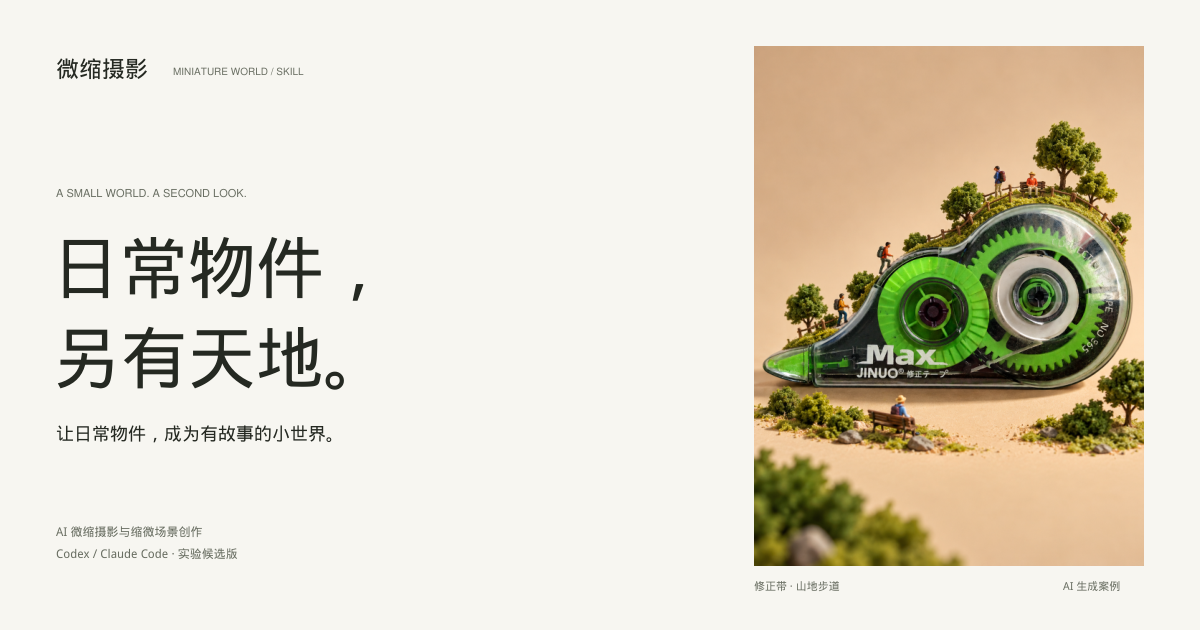
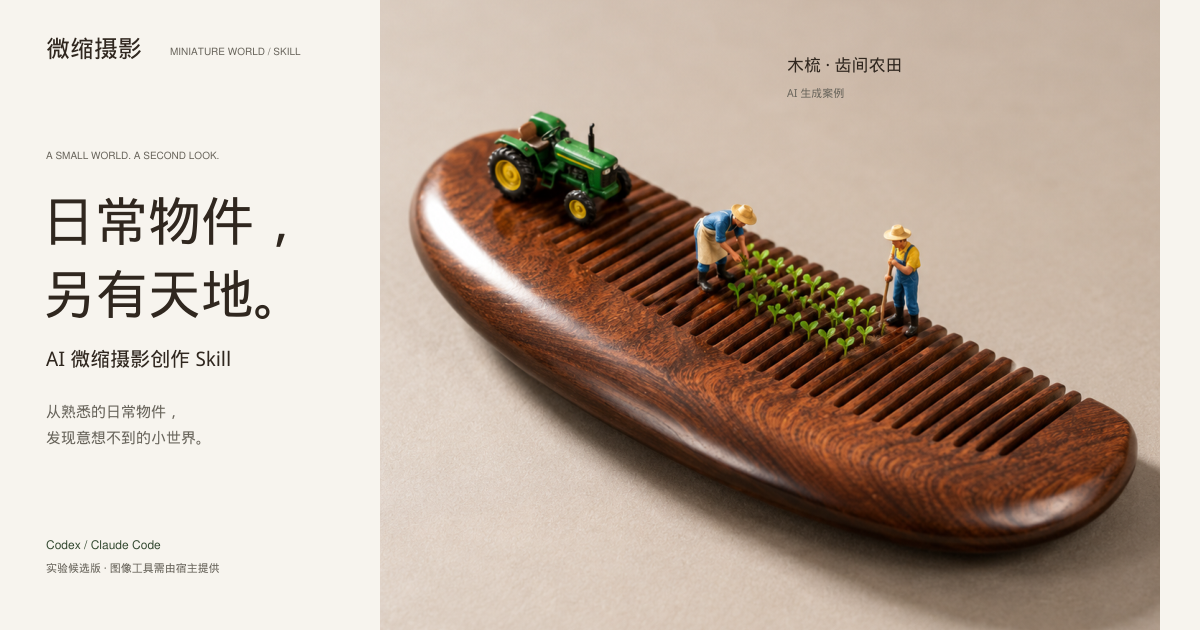
Refine warm gallery with comb hero and clear setup

diff --git a/site/style.css b/site/style.css
@@ -1,4 +1,14 @@
-:root{--paper:#f7f6f1;--ink:#252922;--muted:#666b5f;--line:#dcded3;--green:#355b40;--soft:#ebece3}*{box-sizing:border-box}html{scroll-behavior:smooth;scroll-padding-top:32px}body{margin:0;background:var(--paper);color:var(--ink);font-family:Arial,'Noto Sans CJK SC','Microsoft YaHei',sans-serif;-webkit-font-smoothing:antialiased}a{color:inherit;text-decoration:none}button{font:inherit;color:inherit;cursor:pointer}img{display:block;width:100%;height:auto}figure,h1,h2,h3,p{margin:0}button,a{-webkit-tap-highlight-color:transparent}a:focus-visible,button:focus-visible{outline:2px solid var(--green);outline-offset:6px}.wrap{max-width:1400px;padding-inline:5.4%;margin:auto}.skip{position:absolute;top:-90px;background:var(--ink);color:white;padding:16px;z-index:10}.skip:focus{top:8px}.header{display:flex;justify-content:space-between;align-items:center;height:104px}.brand{display:flex;gap:16px;align-items:center}.brand-cn{font-size:23px;font-weight:750;letter-spacing:-1px}.brand-en{font-size:10px;line-height:1.6;letter-spacing:1.5px;border-left:1px solid var(--line);padding-left:16px}.brand-en span{display:block;letter-spacing:2px;color:var(--muted)}nav{display:flex;align-items:center;gap:35px;font-size:13px}.nav-start{border-bottom:1px solid var(--ink);padding-block:10px}.nav-start span{margin-left:18px}.hero{display:grid;grid-template-columns:1.05fr 1fr;gap:8%;align-items:center;padding-top:38px;padding-bottom:70px}.eyebrow{font-size:10px;letter-spacing:2.2px;color:var(--muted);line-height:1.7}.hero h1{font-family:'Songti SC','Noto Serif CJK SC','SimSun',serif;font-weight:500;font-size:clamp(48px,5.1vw,76px);line-height:1.3;letter-spacing:-2px;margin:28px 0}.hero-lead{font-size:18px;line-height:1.8}.hero-description{font-size:14px;color:var(--muted);line-height:1.95;margin-top:18px}.actions{display:flex;align-items:center;gap:25px;margin-top:35px}.button{display:inline-flex;align-items:center;justify-content:space-between;gap:36px;padding:17px 22px;font-size:13px;border:1px solid var(--green);min-height:50px}.primary{background:var(--green);color:#fff}.primary:hover{background:#274831}.text-link{font-size:13px;text-decoration:underline;text-underline-offset:7px;line-height:2}.hero-meta{font-size:11px;line-height:1.9;color:var(--muted);margin-top:32px}.hero-art{max-width:505px}.image-button{display:block;padding:0;border:0;background:transparent;width:100%;text-align:inherit}.image-button img{transition:filter .2s}.image-button:hover img{filter:brightness(.97)}.hero-art img{aspect-ratio:3/4;object-fit:contain}figcaption{display:flex;justify-content:space-between;gap:15px;font-size:10px;color:var(--muted);margin-top:15px;line-height:1.7}.intro-line{display:flex;justify-content:space-between;gap:16px;border-top:1px solid var(--line);border-bottom:1px solid var(--line);padding-top:20px;padding-bottom:20px;font-size:12px}.intro-line span:last-child{font-size:9px;letter-spacing:1.8px;color:var(--muted)}.section{padding-top:100px;padding-bottom:90px}.section-heading{display:flex;justify-content:space-between;align-items:end;gap:25px;margin-bottom:48px}h2{font-size:clamp(30px,3.4vw,48px);font-weight:500;line-height:1.35;letter-spacing:-1.7px}.section-heading h2{margin-top:18px}.section-heading>p{font-size:13px;color:var(--muted);line-height:1.9;padding-bottom:4px}.stories-grid{display:grid;grid-template-columns:1fr 1fr;gap:65px 9%}.story-offset{margin-top:100px}.story img{aspect-ratio:3/4;object-fit:contain;background:#f0eee8}.story-title{display:flex;justify-content:space-between;gap:15px;margin:20px 0 9px}.story-title h3{font-size:20px;font-weight:500;line-height:1.5}.story-title span{font-size:11px;color:var(--muted);padding-top:6px}.story p{font-size:12px;line-height:1.9;color:var(--muted)}.story-wide{grid-column:1/-1;display:grid;grid-template-columns:1fr 1fr;gap:9%;align-items:center;margin-top:10px}.wide-copy h3{font-size:36px;line-height:1.4;font-weight:500;margin:22px 0}.wide-copy>p:not(.eyebrow){font-size:14px;line-height:2}.wide-copy .text-link{display:inline-block;margin-top:28px}.small-note{color:var(--muted);font-size:11px;line-height:1.9;margin-top:38px}.detail-section{background:var(--soft);padding:80px 0}.detail-inner{display:grid;grid-template-columns:1fr 1fr;gap:9%}.detail-inner h2{margin-top:18px}.detail-copy{max-width:460px}.big-copy{font-size:28px;line-height:1.6;margin-bottom:24px}.detail-copy>p:not(.big-copy){font-size:14px;line-height:2;margin-top:14px;color:#555e50}.detail-foot{display:block;font-size:10px;line-height:1.9;color:var(--muted);margin-top:26px}.method-grid{display:grid;grid-template-columns:repeat(4,1fr);gap:30px}.method-grid article{border-top:1px solid var(--line);padding-top:25px}.number{font-family:Georgia,serif;font-size:35px;font-style:italic;color:#8b9383}.method-grid h3{font-size:20px;font-weight:500;margin:28px 0 15px}.method-grid p{font-size:13px;line-height:1.9;color:var(--muted)}.start-section{background:#e9ede4;padding:90px 0}.start-inner{display:grid;grid-template-columns:1fr 1fr;gap:9%;align-items:center}.start-inner h2{margin-top:20px}.start-description{font-size:14px;line-height:2;color:#626a5e;margin:24px 0}.start-card{padding:35px;background:var(--paper)}.host-buttons{display:flex;margin:20px 0;border-bottom:1px solid var(--line);gap:22px}.host-buttons button{border:0;border-bottom:2px solid transparent;padding:10px 0 13px;background:none;font-size:14px;color:var(--muted)}.host-buttons button[aria-pressed=true]{border-color:var(--green);color:var(--green);font-weight:700}pre{white-space:pre-wrap;overflow-wrap:anywhere;font:14px/2 Arial,'Noto Sans CJK SC',sans-serif;min-height:112px;margin:20px 0}.copy{background:transparent;width:100%;border-color:#a6b29e}.copy:hover{background:var(--soft)}#copy-status{min-height:20px;font-size:11px;margin-top:8px;color:var(--green)}.tool-note{font-size:11px;line-height:1.9;color:var(--muted);margin-top:12px}.about-section{padding-top:85px;padding-bottom:75px;display:grid;grid-template-columns:1fr 1fr;gap:9%}.about-section h2{font-size:26px;line-height:1.5;margin-top:20px}.about-section>div>p:not(.eyebrow){font-size:13px;line-height:2;color:var(--muted);margin-bottom:17px}.about-links{display:flex;gap:24px;font-size:11px;text-decoration:underline;text-underline-offset:5px}.footer{display:flex;justify-content:space-between;gap:25px;border-top:1px solid var(--line);padding-top:32px;padding-bottom:40px;font-size:10px;line-height:2;color:var(--muted)}.footer strong{color:var(--ink);font-weight:500;letter-spacing:1px}.footer>div:last-child{text-align:right}.footer a{border-bottom:1px solid var(--line)}dialog{border:0;padding:24px;max-width:min(94vw,900px);max-height:95vh;background:var(--paper);color:var(--ink)}dialog::backdrop{background:#171c16d9}dialog img{width:auto;max-width:100%;max-height:76vh;margin:auto;object-fit:contain}dialog p{font-size:12px;line-height:1.8;max-width:700px;margin-top:14px}.close{display:block;margin:0 0 16px auto;padding:8px 12px;background:none;border:1px solid var(--line);min-height:40px}
-@media(min-width:1500px){.wrap{padding-inline:70px}}
-@media(max-width:760px){.wrap{padding-inline:23px}.header{height:82px}.brand-cn{font-size:19px}.brand-en{font-size:8px;padding-left:10px;letter-spacing:.7px}.brand{gap:10px}nav{gap:18px;font-size:12px}nav>a:not(.nav-start){display:none}.nav-start span{margin-left:8px}.hero{grid-template-columns:1fr;gap:38px;padding-top:35px;padding-bottom:40px}.hero h1{font-size:53px;margin:23px 0;letter-spacing:-2px}.hero-lead{font-size:16px}.hero-description{font-size:13px}.hero-meta{margin-top:24px}.actions{margin-top:26px;gap:22px}.hero-art{max-width:100%;width:100%}.hero-art img{max-height:none}.intro-line{font-size:11px;padding-block:17px}.intro-line span:last-child{display:none}.section{padding-top:65px;padding-bottom:60px}.section-heading{display:block;margin-bottom:30px}h2{font-size:34px}.section-heading>p{margin-top:22px;font-size:12px}.stories-grid{gap:38px;grid-template-columns:1fr}.story-offset{margin-top:0}.story-title h3{font-size:19px}.story-wide{grid-column:auto;grid-template-columns:1fr;gap:28px}.wide-copy h3{font-size:30px;margin:15px 0}.wide-copy>p:not(.eyebrow){font-size:13px}.detail-section{padding:55px 0}.detail-inner,.start-inner,.about-section{grid-template-columns:1fr;gap:35px}.big-copy{font-size:25px}.method-grid{grid-template-columns:1fr 1fr;gap:32px 24px}.method-grid h3{margin:18px 0 12px;font-size:18px}.method-grid p{font-size:12px}.start-section{padding:58px 0}.start-card{padding:25px}.about-section{padding-top:60px;padding-bottom:45px;gap:25px}.footer{display:block;font-size:10px}.footer>div:last-child{text-align:left;margin-top:18px}.eyebrow{font-size:9px;letter-spacing:1.4px}dialog{padding:16px}dialog img{max-height:70vh}}
+:root{--paper:#f7f4ee;--ink:#30271f;--muted:#68645b;--line:#d4cfc3;--green:#344a31;--soft:#eeece3;--serif:'Songti SC','Noto Serif CJK SC','SimSun',serif}
+*{box-sizing:border-box}html{scroll-behavior:smooth;scroll-padding-top:28px}body{margin:0;background:var(--paper);color:var(--ink);font-family:Arial,'Noto Sans CJK SC','Microsoft YaHei',sans-serif;-webkit-font-smoothing:antialiased}a{color:inherit;text-decoration:none}button{font:inherit;color:inherit;cursor:pointer}img{display:block;width:100%;height:auto}figure,h1,h2,h3,p{margin:0}a:focus-visible,button:focus-visible{outline:2px solid var(--green);outline-offset:5px}.wrap{width:min(1320px,calc(100% - 96px));margin-inline:auto}.skip{position:absolute;top:-90px;background:var(--ink);color:#fff;padding:16px;z-index:10}.skip:focus{top:8px}
+.header{display:flex;justify-content:space-between;align-items:center;min-height:96px;border-bottom:1px solid var(--line);gap:24px}.brand{display:flex;align-items:center;gap:20px}.brand-cn{font-family:var(--serif);font-size:27px;font-weight:700}.brand-en{font-size:10px;letter-spacing:1px;line-height:1.8;color:var(--muted)}.brand-en span{display:inline}nav{display:flex;gap:30px;align-items:center;font-size:14px}.nav-start{border-bottom:1px solid var(--ink);padding-block:8px}
+.hero{display:grid;grid-template-columns:minmax(260px,.8fr) minmax(0,1.65fr);gap:30px;align-items:center;padding:48px 0 58px}.hero-copy{position:relative;z-index:1}.eyebrow{font-size:11px;letter-spacing:1.5px;line-height:1.8;color:var(--muted)}.hero h1{font-family:var(--serif);font-size:clamp(40px,4.7vw,64px);font-weight:500;line-height:1.3;letter-spacing:-1.5px;margin:24px 0}.hero-lead{font-family:var(--serif);font-size:22px;line-height:1.6}.hero-description{font-size:15px;line-height:1.9;color:var(--muted);margin-top:24px}.actions{display:flex;align-items:center;gap:25px;flex-wrap:wrap;margin-top:32px}.button{display:inline-flex;align-items:center;justify-content:center;min-height:48px;padding:14px 24px;border:1px solid var(--green);font-size:14px}.primary{background:var(--green);color:#fff}.primary:hover{background:#263d23}.text-link{font-size:14px;line-height:1.8;text-decoration:underline;text-underline-offset:6px}.hero-meta{font-size:11px;color:var(--muted);line-height:1.8;margin-top:40px}.hero-art{min-width:0}.image-button{display:block;width:100%;border:0;padding:0;background:none;text-align:inherit}.image-button img{transition:filter .2s}.image-button:hover img{filter:brightness(.98)}
+/* Crops only unused top/bottom background. Full comb bounds stay in frame. */
+.hero-art img{aspect-ratio:4/3;object-fit:cover;object-position:50% 52%}figcaption{display:flex;justify-content:space-between;gap:20px;font-size:12px;line-height:1.9;color:var(--muted);margin-top:17px}figcaption strong{font-family:var(--serif);font-size:18px;font-weight:500;color:var(--ink)}figcaption>span:last-child{text-align:right}
+.section{padding-top:70px;padding-bottom:70px}#stories{border-top:1px solid var(--line)}.section-heading{display:flex;justify-content:space-between;align-items:end;gap:32px;margin-bottom:36px}h2{font-family:var(--serif);font-size:clamp(28px,3vw,40px);font-weight:500;line-height:1.4}.section-heading h2{margin-top:14px}.section-heading>p{font-size:14px;line-height:1.9;color:var(--muted)}.stories-grid{display:grid;grid-template-columns:repeat(3,minmax(0,1fr));gap:24px}.story img{aspect-ratio:3/4;object-fit:contain}.story h3{font-family:var(--serif);font-size:20px;line-height:1.5;font-weight:500;margin:18px 0 8px}.story p{font-size:14px;line-height:1.8;color:var(--muted)}.gallery-foot{display:flex;justify-content:space-between;align-items:baseline;gap:25px;margin-top:28px}.small-note{font-size:12px;line-height:1.8;color:var(--muted)}
+.detail-section{background:var(--soft);padding:62px 0}.detail-inner{display:grid;grid-template-columns:1fr 1.2fr;gap:10%}.detail-inner h2{margin-top:18px}.detail-copy{max-width:570px}.big-copy{font-family:var(--serif);font-size:26px;line-height:1.5;margin-bottom:20px}.detail-copy>p:not(.big-copy){font-size:14px;line-height:1.9;margin-top:12px;color:var(--muted)}.detail-foot{display:block;font-size:12px;line-height:1.8;color:var(--muted);margin-top:20px}.method-grid{display:grid;grid-template-columns:repeat(4,minmax(0,1fr));gap:30px}.method-grid article{border-top:1px solid var(--line);padding-top:22px}.number{font-family:Georgia,serif;font-size:28px;color:var(--green)}.method-grid h3{font-family:var(--serif);font-size:23px;font-weight:500;margin:18px 0 12px}.method-grid p{font-size:14px;line-height:1.8;color:var(--muted)}
+.start-section{background:var(--soft);padding:70px 0}.start-inner{display:grid;grid-template-columns:1fr 1.2fr;gap:10%;align-items:center}.start-inner h2{margin-top:18px}.start-description{font-size:14px;line-height:1.9;color:var(--muted);margin:22px 0}.start-card{padding:30px;background:var(--paper);min-width:0}.host-buttons{display:flex;margin:18px 0;border-bottom:1px solid var(--line);gap:24px}.host-buttons button{border:0;border-bottom:2px solid transparent;padding:12px 0;background:none;font-size:14px;color:var(--muted)}.host-buttons button[aria-pressed=true]{border-color:var(--green);color:var(--green);font-weight:700}pre{white-space:pre-wrap;overflow-wrap:anywhere;font:14px/1.9 Arial,'Noto Sans CJK SC',sans-serif;min-height:106px;margin:18px 0}.copy{width:100%;background:none}.copy:hover{background:var(--soft)}#copy-status{min-height:22px;font-size:12px;line-height:1.7;margin-top:10px;color:var(--green)}.tool-note{font-size:12px;line-height:1.8;color:var(--muted);margin-top:12px}
+.about-section{padding-block:65px;display:grid;grid-template-columns:1fr 1.2fr;gap:10%}.about-section h2{font-size:27px;margin-top:18px}.about-section>div>p:not(.eyebrow){font-size:14px;line-height:1.9;color:var(--muted);margin-bottom:15px}.about-links{display:flex;gap:24px;font-size:12px;text-decoration:underline;text-underline-offset:5px}.footer{display:flex;justify-content:space-between;gap:25px;border-top:1px solid var(--line);padding-block:28px 36px;font-size:11px;line-height:1.9;color:var(--muted)}.footer strong{color:var(--ink);font-weight:500;letter-spacing:1px}.footer>div:last-child{text-align:right}.footer a{text-decoration:underline;text-underline-offset:4px}
+dialog{border:0;padding:24px;max-width:min(94vw,900px);max-height:95vh;background:var(--paper);color:var(--ink)}dialog::backdrop{background:#211b17d9}dialog img{width:auto;max-width:100%;max-height:76vh;margin:auto;object-fit:contain}dialog p{font-size:14px;line-height:1.7;margin-top:14px}.close{display:block;margin:0 0 16px auto;padding:10px 14px;background:none;border:1px solid var(--line);min-height:44px}
+@media(max-width:960px){.wrap{width:calc(100% - 56px)}.hero{grid-template-columns:.9fr 1.25fr;gap:20px}.hero h1{font-size:42px}.hero-lead{font-size:19px}.actions{gap:18px}.hero-art img{aspect-ratio:1/1}.stories-grid{gap:18px}.story h3{font-size:18px}nav{gap:20px}.brand-en{display:none}}
+@media(max-width:680px){.wrap{width:calc(100% - 40px)}.header{min-height:78px}.brand-cn{font-size:23px}nav>a:not(.nav-start){display:none}nav{font-size:13px}.hero{grid-template-columns:1fr;gap:28px;padding:34px 0 40px}.hero h1{font-size:44px;margin:18px 0}.hero-lead{font-size:20px}.hero-description{margin-top:16px}.hero-meta{margin-top:22px}.actions{margin-top:24px}.hero-art img{aspect-ratio:4/3}figcaption{font-size:11px;gap:14px}figcaption strong{font-size:17px}.section{padding-block:45px}.section-heading{display:block;margin-bottom:28px}.section-heading>p{margin-top:16px}.stories-grid{grid-template-columns:1fr;gap:30px}.story h3{font-size:20px;margin-top:15px}.gallery-foot{display:block;margin-top:25px}.gallery-foot a{display:inline-block;margin-top:14px}.detail-section{padding:42px 0}.detail-inner,.start-inner,.about-section{grid-template-columns:1fr;gap:28px}.method-grid{grid-template-columns:1fr 1fr;gap:26px 18px}.method-grid h3{font-size:21px}.method-grid p{font-size:13px}.start-section{padding:45px 0}.start-card{padding:24px}.about-section{padding-block:45px}.footer{display:block}.footer>div:last-child{text-align:left;margin-top:18px}dialog{padding:16px}dialog img{max-height:70vh}}
 @media(prefers-reduced-motion:reduce){html{scroll-behavior:auto}*{transition:none!important}}

diff --git a/site/index.html b/site/index.html
@@ -10,24 +10,23 @@
 </head>
 <body>
 <a class="skip" href="#main">跳到正文</a>
-<header class="header wrap"><a class="brand" href="#main" aria-label="微缩摄影首页"><span class="brand-cn">微缩摄影</span><span class="brand-en">MINIATURE WORLD <span> / SKILL</span></span></a><nav aria-label="主导航"><a href="#stories">看作品</a><a href="#method">创作方法</a><a class="nav-start" href="#start">开始使用 <span aria-hidden="true">↗</span></a></nav></header>
+<header class="header wrap"><a class="brand" href="#main" aria-label="微缩摄影首页"><span class="brand-cn">微缩摄影</span><span class="brand-en">MINIATURE WORLD <span> / SKILL</span></span></a><nav aria-label="主导航"><a href="#stories">看作品</a><a href="#method">创作方法</a><a class="nav-start" href="#start">安装与使用</a></nav></header>
 <main id="main">
 <section class="hero wrap">
-<div class="hero-copy"><p class="eyebrow">A SMALL WORLD. A SECOND LOOK.</p><h1>日常物件，<br>另有天地。</h1><p class="hero-lead">让日常物件，成为有故事的小世界。</p><p class="hero-description">一处轮廓，一段纹理，一个新的联想。<br>让微小的人物，把藏在物件里的故事显现出来。</p><div class="actions"><a class="button primary" href="#stories">走进小世界 <span aria-hidden="true">↗</span></a><a class="text-link" href="#start">使用这个 Skill</a></div><p class="hero-meta">为好奇的创作者、设计师与商品视觉团队而作。<br>Codex / Claude Code · 实验候选版</p></div>
-<figure class="hero-art"><button class="image-button" data-image="../examples/correction-tape-hiking.png" data-caption="修正带 · 山地步道｜AI 生成案例；细小标识与商品尺寸未验收。" aria-label="放大修正带山地步道作品"><img src="../examples/correction-tape-hiking.png" alt="微小的徒步者沿着修正带起伏的外壳行走，修正带成为山地步道" width="1087" height="1447" fetchpriority="high"></button><figcaption><span>01 / 修正带 · 山地步道</span><span>AI 生成 · 点击看大图</span></figcaption></figure>
+<div class="hero-copy"><p class="eyebrow">A SMALL WORLD. A SECOND LOOK.</p><h1>日常物件，<br>另有天地。</h1><p class="hero-lead">AI 微缩摄影创作 Skill</p><p class="hero-description">从熟悉的日常物件，<br>发现意想不到的小世界。</p><div class="actions"><a class="button primary" href="#start">安装与使用</a><a class="text-link" href="#stories">查看案例</a></div><p class="hero-meta">Codex / Claude Code · 实验候选版</p></div>
+<figure class="hero-art"><button class="image-button" data-image="../examples/comb-farm.png" data-caption="木梳 · 齿间农田｜AI 生成案例；梳齿数量与尺寸尚未逐项核对。" aria-label="放大木梳齿间农田作品"><img src="../examples/comb-farm.png" alt="木梳的平行梳齿成为田垄，两位微缩农人照料幼苗，农机停在梳背上" width="1086" height="1448" fetchpriority="high"></button><figcaption><span><strong>木梳 · 齿间农田</strong><br>平行的梳齿，也能长出一片田野。</span><span>AI 生成案例 · 点击看原图</span></figcaption></figure>
 </section>
-<div class="intro-line wrap"><span>换一个尺度，看见另一种可能。</span><span>OBJECT → IDEA → SMALL WORLD</span></div>
 <section id="stories" class="section wrap">
-<div class="section-heading"><div><p class="eyebrow">01 / SELECTED STORIES</p><h2>物件很寻常。<br>故事不寻常。</h2></div><p>故事从物件本身出发。<br>原来的身份还在，新的世界已经发生。</p></div>
+<div class="section-heading"><div><p class="eyebrow">SELECTED STORIES</p><h2>从熟悉的日常，<br>发现不一样的风景。</h2></div><p>原来的物件还在。<br>新的故事，已经发生。</p></div>
 <div class="stories-grid">
-<article class="story"><button class="image-button" data-image="../examples/comb-farm.png" data-caption="木梳 · 齿间农田｜AI 生成案例；梳齿数量与尺寸尚未逐项核对。" aria-label="放大木梳齿间农田作品"><img src="../examples/comb-farm.png" alt="木梳的平行梳齿成为微缩农田，农机沿田垄工作" width="1086" height="1448" loading="lazy"></button><div class="story-title"><h3>梳齿之间，有一片田野。</h3><span>02</span></div><p>木梳 / 平行排列的梳齿，成为耕作的田垄。</p></article>
-<article class="story story-offset"><button class="image-button" data-image="../examples/notebook-bike-rack.png" data-caption="笔记本 · 装订圈停车架｜AI 生成案例；不代表锁车动作或具体型号保真已通过。" aria-label="放大笔记本装订圈停车架作品"><img src="../examples/notebook-bike-rack.png" alt="微缩自行车停在笔记本金属装订圈旁，装订圈成为停车架" width="1086" height="1448" loading="lazy"></button><div class="story-title"><h3>翻开一页，停下脚步。</h3><span>03</span></div><p>笔记本 / 金属装订圈，成为停放自行车的结构。</p></article>
-<article class="story story-wide"><button class="image-button" data-image="../examples/potato-chip-harvest.png" data-caption="薯片 · 波纹秋收｜AI 生成案例；食品纹理创意，不认证特定包装商品。" aria-label="放大薯片波纹秋收作品"><img src="../examples/potato-chip-harvest.png" alt="微型收割机停在波纹薯片上，金黄色纹理成为秋收的田垄" width="1086" height="1448" loading="lazy"></button><div class="wide-copy"><p class="eyebrow">04 / A DIFFERENT PERSPECTIVE</p><h3>一片薯片。<br>一场金色的秋收。</h3><p>金黄的波纹，成为收割的田垄。<br>一旁的碎屑与微型收割机，让酥脆的质地有了丰收的意味。</p><a class="text-link" href="https://github.com/denggui-ai/create-miniature-world/blob/main/examples/SELECTED.md">查看全部 18 组案例与说明 <span aria-hidden="true">↗</span></a></div></article>
-</div><p class="small-note">以上均为开发期间的 AI 生成案例，展示创意方向；不代表每张图的商品保真、人偶尺度和细节均已通过验收。</p>
+<article class="story"><button class="image-button" data-image="../examples/notebook-bike-rack.png" data-caption="笔记本 · 装订圈停车架｜AI 生成案例；不代表锁车动作或具体型号保真已通过。" aria-label="放大笔记本装订圈停车架作品"><img src="../examples/notebook-bike-rack.png" alt="微缩自行车停在笔记本金属装订圈旁，装订圈成为停车架" width="1086" height="1448" loading="lazy"></button><h3>笔记本 · 装订圈停车架</h3><p>翻开一页，找到停放自行车的地方。</p></article>
+<article class="story"><button class="image-button" data-image="../examples/potato-chip-harvest.png" data-caption="薯片 · 波纹秋收｜AI 生成案例；食品纹理创意，不认证特定包装商品。" aria-label="放大薯片波纹秋收作品"><img src="../examples/potato-chip-harvest.png" alt="微型收割机停在波纹薯片上，金黄色纹理成为秋收的田垄" width="1086" height="1448" loading="lazy"></button><h3>薯片 · 波纹秋收</h3><p>一片薯片，也有金黄的田垄与忙碌。</p></article>
+<article class="story"><button class="image-button" data-image="../examples/correction-tape-hiking.png" data-caption="修正带 · 山地步道｜AI 生成案例；细小标识与商品尺寸未验收。" aria-label="放大修正带山地步道作品"><img src="../examples/correction-tape-hiking.png" alt="微小的徒步者沿着修正带起伏的外壳行走，修正带成为山地步道" width="1087" height="1447" loading="lazy"></button><h3>修正带 · 山地步道</h3><p>沿着起伏的轮廓，走一段微小的旅程。</p></article>
+</div><div class="gallery-foot"><p class="small-note">开发期间的 AI 生成案例；具体商品保真与已知不足见案例说明。</p><a class="text-link" href="https://github.com/denggui-ai/create-miniature-world/blob/main/examples/SELECTED.md">查看全部 18 组案例</a></div>
 </section>
 <section class="detail-section" id="connection"><div class="wrap detail-inner"><div><p class="eyebrow">THE CONNECTION MATTERS</p><h2>故事，为什么<br>发生在这里？</h2></div><div class="detail-copy"><p class="big-copy">因为装订圈，<br>刚好可以成为停车架。</p><p>一个可见的结构，同时保留笔记本的身份，也承担新场景里的用途。自行车与人物的位置，让这个联想变得可读。</p><p>判断创意时，我们会追问：换掉这个物件，画面里最有意思的联系还在吗？</p><span class="detail-foot">以笔记本案例说明创意关系；此处不是完整的输入／生成过程复放。</span></div></div></section>
 <section id="method" class="section wrap"><div class="section-heading"><div><p class="eyebrow">02 / THE CREATIVE PROCESS</p><h2>让巧思，有迹可循。</h2></div><p>从读懂物件，到看懂画面。<br>四项能力，组成一次完整创作。</p></div><div class="method-grid"><article><span class="number">01</span><h3>发现联想</h3><p>找到商品值得被<br>重新看见的特征。</p></article><article><span class="number">02</span><h3>建立情境</h3><p>让行动或空间关系<br>把联想显现出来。</p></article><article><span class="number">03</span><h3>组织画面</h3><p>让原物、新角色<br>和整体美感同时成立。</p></article><article><span class="number">04</span><h3>判断巧思</h3><p>用可见证据和必要对照，<br>区分成立、好看与保真。</p></article></div></section>
-<section id="start" class="start-section"><div class="wrap start-inner"><div><p class="eyebrow">03 / MAKE YOUR OWN</p><h2>下一个小世界，<br>从你的物件开始。</h2><p class="start-description">上传一张商品照片，先看三个创意。<br>选一个，再生成、审图与修改。</p><a class="text-link" href="https://github.com/denggui-ai/create-miniature-world/blob/main/docs/INSTALL.md">阅读安装与更新说明 <span aria-hidden="true">↗</span></a></div><div class="start-card"><p class="eyebrow">安装后，复制这句话开始</p><div class="host-buttons" role="group" aria-label="选择使用环境"><button type="button" data-host="codex" aria-pressed="true">Codex</button><button type="button" data-host="claude" aria-pressed="false">Claude Code</button></div><pre id="prompt">使用 $create-miniature-world，把这张商品图做成微缩摄影。先给三个有明显区别的创意，不要立即生图。</pre><button class="button copy" type="button" id="copy">复制启动指令 <span aria-hidden="true">↗</span></button><p id="copy-status" role="status" aria-live="polite"></p><p class="tool-note">Skill 提供创作流程；实际生图、参考图输入和编辑，需要所在环境提供对应工具。没有生图工具时，可以先获得方案与提示词。</p></div></div></section>
+<section id="start" class="start-section"><div class="wrap start-inner"><div><p class="eyebrow">03 / MAKE YOUR OWN</p><h2>下一个小世界，<br>从你的物件开始。</h2><p class="start-description">先在 Codex 或 Claude Code 中安装 Skill。<br>上传商品图，看三个创意，选定后再生成与修改。</p><a class="text-link" href="https://github.com/denggui-ai/create-miniature-world/blob/main/docs/INSTALL.md">阅读安装与更新说明 <span aria-hidden="true">↗</span></a></div><div class="start-card"><p class="eyebrow">安装后，复制这句话开始</p><div class="host-buttons" role="group" aria-label="选择使用环境"><button type="button" data-host="codex" aria-pressed="true">Codex</button><button type="button" data-host="claude" aria-pressed="false">Claude Code</button></div><pre id="prompt">使用 $create-miniature-world，把这张商品图做成微缩摄影。先给三个有明显区别的创意，不要立即生图。</pre><button class="button copy" type="button" id="copy">复制启动指令 <span aria-hidden="true">↗</span></button><p id="copy-status" role="status" aria-live="polite"></p><p class="tool-note">Skill 提供创作流程；实际生图、参考图输入和编辑，需要所在环境提供对应工具。没有生图工具时，可以先获得方案与提示词。</p></div></div></section>
 <section class="about-section wrap"><div><p class="eyebrow">WITH APPRECIATION</p><h2>向一种看世界的方式致敬。</h2></div><div><p>受田中达也（Tatsuya Tanaka）的「见立 / mitate」创作启发，我们学习从寻常事物中发现另一个世界，并用自己的物件与情境继续探索。</p><p>微缩摄影 Skill 同时面向 AI 微缩摄影与缩微场景创作。本项目为独立创作工具，与田中达也、MINIATURE CALENDAR 及 Preiser 无官方合作或背书关系。</p><div class="about-links"><a href="https://miniature-calendar.com/about/">了解创作启发</a><a href="https://github.com/denggui-ai/create-miniature-world/blob/main/THIRD_PARTY_NOTICES.md">素材与许可说明</a></div></div></section>
 </main><footer class="wrap footer"><div><strong>微缩摄影 · MINIATURE WORLD</strong><p>小世界里，藏着新的看见。</p></div><div><span>v0.1.0-rc2 · 私有预览</span><p>本机生图与编辑闭环待验收。</p><a href="https://github.com/denggui-ai/create-miniature-world">GitHub 项目与反馈 <span aria-hidden="true">↗</span></a></div></footer>
 <dialog id="lightbox" aria-labelledby="lightbox-caption"><button class="close" type="button">关闭大图</button><img id="lightbox-image" alt=""><p id="lightbox-caption"></p></dialog>

diff --git a/site/cover.html b/site/cover.html
@@ -4,6 +4,6 @@
 <meta name="viewport" content="width=device-width,initial-scale=1">
 <meta name="robots" content="noindex,nofollow">
 <title>Miniature World · 封面</title>
-<style>body{margin:0;background:#f7f6f1}img{display:block;width:100%;max-width:1200px;height:auto;margin:auto}</style>
-<img src="cover.png" width="1200" height="630" alt="微缩摄影 Skill：日常物件，另有天地。右侧是修正带山地步道 AI 生成案例。">
+<style>body{margin:0;background:#f7f4ee}img{display:block;width:100%;max-width:1200px;height:auto;margin:auto}</style>
+<img src="cover.png" width="1200" height="630" alt="微缩摄影 Skill：日常物件，另有天地。右侧是木梳齿间农田 AI 生成案例。">
 </html>

diff --git a/site/export_cover.py b/site/export_cover.py
@@ -1,7 +1,7 @@
-"""Optional cover export: python3 site/export_cover.py (requires PyMuPDF).
+"""Optional README cover export: python3 site/export_cover.py (PyMuPDF).
 
-Composes text and an existing case image; does not generate or retouch the case.
-Not needed to install the Skill or view the website.
+Only lays out text and the original comb photo. Skill installation and the
+website do not require this script. The photo is never retouched or replaced.
 """
 from pathlib import Path
 import fitz
@@ -9,9 +9,10 @@ import fitz
 ROOT = Path(__file__).resolve().parent
 doc = fitz.open()
 page = doc.new_page(width=1200, height=630)
-paper = (247 / 255, 246 / 255, 241 / 255)
-ink = (37 / 255, 41 / 255, 34 / 255)
-muted = (106 / 255, 111 / 255, 99 / 255)
+paper = (247 / 255, 244 / 255, 238 / 255)
+ink = (48 / 255, 39 / 255, 31 / 255)
+muted = (104 / 255, 100 / 255, 91 / 255)
+green = (52 / 255, 74 / 255, 49 / 255)
 page.draw_rect(page.rect, color=paper, fill=paper)
 page.insert_font(fontname="cn", fontbuffer=fitz.Font("cjk").buffer)
 
@@ -20,18 +21,23 @@ def text(x, y, value, size, font="cn", color=ink):
     page.insert_text((x, y), value, fontsize=size, fontname=font, color=color)
 
 
-text(56, 77, "微缩摄影", 23)
-text(173, 75, "MINIATURE WORLD / SKILL", 10, "helv", muted)
-text(56, 197, "A SMALL WORLD. A SECOND LOOK.", 11, "helv", muted)
-text(52, 292, "日常物件，", 68)
-text(52, 382, "另有天地。", 68)
-text(56, 440, "让日常物件，成为有故事的小世界。", 18)
-text(56, 536, "AI 微缩摄影与缩微场景创作", 12, color=muted)
-text(56, 558, "Codex / Claude Code · 实验候选版", 12, color=muted)
-page.insert_image(fitz.Rect(754, 46, 1144, 566),
-                  filename=str(ROOT.parent / "examples" / "correction-tape-hiking.png"),
+# Retain the complete photo width. Only empty top/bottom background lies
+# outside the page: the comb, tractor, people and seedlings remain in frame.
+page.insert_image(fitz.Rect(380, -170, 1160, 870),
+                  filename=str(ROOT.parent / "examples" / "comb-farm.png"),
                   keep_proportion=True)
-text(754, 590, "修正带 · 山地步道", 11, color=muted)
-text(1063, 590, "AI 生成案例", 11, color=muted)
+text(46, 57, "微缩摄影", 24)
+text(170, 55, "MINIATURE WORLD / SKILL", 10, "helv", muted)
+text(46, 159, "A SMALL WORLD. A SECOND LOOK.", 10, "helv", muted)
+text(42, 240, "日常物件，", 53)
+text(42, 313, "另有天地。", 53)
+text(46, 366, "AI 微缩摄影创作 Skill", 20)
+text(46, 417, "从熟悉的日常物件，", 15, color=muted)
+text(46, 443, "发现意想不到的小世界。", 15, color=muted)
+text(46, 549, "Codex / Claude Code", 12, "helv", green)
+text(46, 572, "实验候选版 · 图像工具需由宿主提供", 11, color=muted)
+# Quiet caption sits in the photograph's empty background above the subject.
+text(787, 71, "木梳 · 齿间农田", 17)
+text(787, 97, "AI 生成案例", 11, color=muted)
 page.get_pixmap(alpha=False).save(ROOT / "cover.png")
 print(ROOT / "cover.png")

diff --git a/site/README.md b/site/README.md
@@ -1,6 +1,6 @@
 # 介绍页预览
 
-这是独立于Skill核心的静态介绍页，尚未公开上线。主案例按用户最新选择采用：修正带、木梳、笔记本、薯片。木梳与薯片均为田野题材，分别强调结构排列与食品纹理，不宣称四种互不相同的故事。
+这是独立于Skill核心的静态介绍页，尚未公开上线。采用用户选定的第1版温暖作品集方向：木梳为首屏，笔记本、薯片、修正带为下方案例。木梳与薯片均为田野题材，分别强调结构排列与食品纹理，不宣称四种互不相同的故事。
 
 ## 在本机查看
 
@@ -17,11 +17,13 @@
 ## 文件
 
 - `index.html`：单页介绍与内容。
-- `style.css`：暖白底、深灰文字、低饱和绿色交互与响应式排版。
+- `style.css`：暖白底、深棕文字、深绿交互与响应式排版。
 - `script.js`：指令切换、复制与图片放大；无依赖。
-- `cover.html`、`cover.png`：封面预览与1200×630图片，复用修正带原图；未改动案例图片。
+- `cover.html`、`cover.png`：封面预览与1200×630图片，复用木梳原图；未改动案例图片。
 - `export_cover.py`：可选封面导出脚本；修改文字或排版时运行 `python3 site/export_cover.py`，仅该操作需要PyMuPDF。Skill安装与网页查看无需Python或构建依赖。
 
 没有构建依赖、账户系统或后台。正式部署前确认发布根目录同时包含site与examples，或将图像相对路径调整为实际公开素材位置；不要单独上传site后误以为图片已经完整。
 
-封面采用独立排版导出，已查看图片确认文字、构图和原图完整性；它不是网页截图，不能代替网页视觉验收。本轮还把案例图片尺寸改为实际尺寸，显示比例改为3:4，并将浅灰文字加深；这些源文件修正仍待浏览器复核。
+封面采用独立排版导出，已查看图片确认文字、构图和木梳完整性；它不是网页截图，不能代替网页视觉验收。页面首屏仅收起木梳照片上下空背景，不裁掉梳体、农机或人物；点击查看完整原图。下方案例按原比例显示。
+
+视觉依据为用户选定的[第1版设计稿](../docs/design-reference.png)，实现同时采用后续确认的调整：标题缩小、木梳完整、文案精简、入口明确安装与使用。设计稿不是案例原图，不得拿生成稿中的局部图片替换examples素材。README横版封面为同一方向的尺寸适配；中文字体使用现有渲染字体，网页优先使用系统宋体，不宣称逐像素还原。
